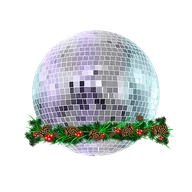
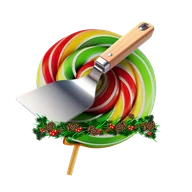
Ставрополь, «Сезон 2026-2027»: текст крупнее, шесть пунктов три в ряд
Серёга: текст слишком мелкий, убрать «Больше динамики - танцев и музыки»
и «Больше времени на программу и фото». Текст плашек 16-19 px (было 14-15,5),
заголовки 19-23, значки до 68 px; от 1100 px три в ряд, до 1100 две, на
телефоне лента из шести. Значки перенумерованы i1-i6, i7-i8 удалены.

diff --git a/stavropol.html b/stavropol.html
@@ -10513,15 +10513,18 @@ html.zs-lock .nav{margin-right:var(--zs-sbw,0px)}
      здесь — экран оставлять, у Тюмени его нет.
 
      МАТЕРИАЛ со старого сайта (блок node168 — компьютер, node667 — телефон): фон — те же фото
-     архива под чёрной вуалью 64 % (у телефона свой кадр), восемь пунктов компьютерной версии
-     и их значки. Картинки собирает sayt-nn/instrumenty/sezon_stavropol.py.
+     архива под чёрной вуалью 64 % (у телефона свой кадр), пункты компьютерной версии и их
+     значки. Картинки собирает sayt-nn/instrumenty/sezon_stavropol.py. Из восьми пунктов
+     Серёга убрал два: «Больше динамики - танцев и музыки» и «Больше времени на программу
+     и фото» (26.09.2026) — осталось шесть.
      ПОДАЧА своя (Серёга, в тот же день: «сделай в нашем стиле… текст в еле заметные плашки,
      добавь волшебства, компактнее, текст меньше»): пункты на еле заметном тёплом стекле
      с волосяной золотой кромкой (материя карточек фактов «Капсулы времени», .tm-f), значки
      парят над тёплым ореолом, по плашкам по очереди проходит блик, над архивом всплывает
      золотая пыль и дышат лиловые/янтарные отблески, по слову «Сезон» пробегает отсвет.
-     Раскладка: от 1180 px четыре плашки в ряд, до 1180 две, до 640 лента, которую
-     листают пальцем (с точками). Движение крутится только пока экран виден (класс .in)
+     Раскладка: от 1100 px три плашки в ряд (два ряда), до 1100 две, до 640 лента,
+     которую листают пальцем (с точками). Текст плашек 16-19 px: первый заход с 14-15,5
+     Серёга назвал слишком мелким. Движение крутится только пока экран виден (класс .in)
      и выключено при «меньше движения».
 
      ЗАГОЛОВОК ПОКА ТЕКСТОМ. Картинку «Сезон 2026-2027» Серёга делает сам: придёт — встаёт
@@ -10630,18 +10633,18 @@ html.zs-lock .nav{margin-right:var(--zs-sbw,0px)}
 /* ---------- плашки ---------- */
 .sz-list{
   list-style:none; margin:clamp(28px,2.8vw,44px) 0 0; padding:0;
-  display:grid; grid-template-columns:repeat(4,minmax(0,1fr)); gap:clamp(12px,1.25vw,20px);
+  display:grid; grid-template-columns:repeat(3,minmax(0,1fr)); gap:clamp(14px,1.4vw,22px);
 }
 /* Еле заметное тёплое стекло: заливка 3-8 % и волосяная золотая кромка внутренней
    тенью (как у .tm-f — высота не зависит от толщины линии); к нижнему углу —
    тень лилового перелива. Блюра под стеклом нет намеренно: фон и так размыт,
    а backdrop-filter над дышащими отблесками пересчитывался бы каждый кадр. */
 .sz-i{
-  --ic:clamp(48px,3.5vw,56px);
+  --ic:clamp(56px,4.2vw,68px);
   position:relative; isolation:isolate; overflow:hidden;
   display:grid; grid-template-columns:var(--ic) minmax(0,1fr); align-items:center; align-content:start;
-  column-gap:14px; row-gap:12px;
-  padding:18px 20px 20px; border-radius:18px;
+  column-gap:16px; row-gap:14px;
+  padding:clamp(18px,1.5vw,24px) clamp(20px,1.6vw,26px) clamp(20px,1.6vw,26px); border-radius:20px;
   background:linear-gradient(160deg, rgba(255,228,184,.08) 0%, rgba(255,210,150,.035) 46%, rgba(132,74,214,.06) 100%);
   box-shadow:
     inset 0 0 0 1px rgba(255,214,150,.17),
@@ -10669,12 +10672,12 @@ html.zs-lock .nav{margin-right:var(--zs-sbw,0px)}
 @keyframes szFloat{0%,100%{transform:translate3d(0,0,0)} 50%{transform:translate3d(0,-4px,0)}}
 .sz-h{
   margin:0; font-family:"Blogger Sans","Golos Text",Arial,sans-serif; font-weight:700;
-  font-size:clamp(16px,1.12vw,18.5px); line-height:1.15; color:#FFD189; text-wrap:balance;
+  font-size:clamp(19px,1.4vw,23px); line-height:1.15; color:#FFD189; text-wrap:balance;
 }
 .sz-p{
   grid-column:1/-1; margin:0;
   font-family:"Blogger Sans Medium","Blogger Sans",Arial,sans-serif; font-weight:500;
-  font-size:clamp(14px,.94vw,15.5px); line-height:1.42; color:rgba(255,255,255,.9);
+  font-size:clamp(16px,1.15vw,19px); line-height:1.45; color:rgba(255,255,255,.92);
   text-wrap:pretty; text-shadow:0 1px 12px rgba(0,0,0,.35);
 }
 @media (hover:hover) and (pointer:fine){
@@ -10708,8 +10711,8 @@ html.zs-lock .nav{margin-right:var(--zs-sbw,0px)}
   .sz{padding-top:calc(var(--sz-seam) + clamp(48px,6vw,76px))}
   .sz-seam--top{display:block}
 }
-/* до 1180 четыре в ряд тесно — две */
-@media (max-width:1179px){
+/* до 1100 три в ряд тесно — две */
+@media (max-width:1099px){
   .sz-list{grid-template-columns:repeat(2,minmax(0,1fr))}
 }
 /* до 768 у .cr-cont нет полей (так у экранов-копий) — даём свои */
@@ -10727,7 +10730,7 @@ html.zs-lock .nav{margin-right:var(--zs-sbw,0px)}
     scrollbar-width:none; -webkit-overflow-scrolling:touch;
   }
   .sz-list::-webkit-scrollbar{display:none}
-  .sz-i{flex:0 0 min(80vw,330px); scroll-snap-align:start; padding:16px 18px 18px}
+  .sz-i{flex:0 0 min(84vw,340px); scroll-snap-align:start; padding:18px 20px 20px}
   .sz-dots{display:flex; justify-content:center; gap:8px; margin-top:14px}
   .sz-dots i{display:block; width:6px; height:6px; border-radius:3px; background:rgba(255,214,150,.3);
     transition:width .3s ease, background-color .3s ease}
@@ -10761,22 +10764,16 @@ html.zs-lock .nav{margin-right:var(--zs-sbw,0px)}
         <h3 class="sz-h">Внедрили познавательную часть</h3>
         <p class="sz-p">Мы добавили историческую составляющую в квест. Дети узнают множество фактов из истории России и мира, познакомятся с выдающимися личностями разных эпох нашей страны в игровой форме.</p></li>
       <li class="sz-i"><span class="sz-ic-w"><img class="sz-ic" src="st-sz-i4.webp" width="192" height="192" alt="" loading="lazy" decoding="async"></span>
-        <h3 class="sz-h">Больше динамики&nbsp;- танцев и&nbsp;музыки</h3>
-        <p class="sz-p">Вы просили больше танца на улице? Во время приветственного шоу во дворе детки с главными героями станцуют флеш-моб в формате тик-ток. Видео с танцем мы снимем для вас на видео!</p></li>
-      <li class="sz-i"><span class="sz-ic-w"><img class="sz-ic" src="st-sz-i5.webp" width="192" height="192" alt="" loading="lazy" decoding="async"></span>
         <h3 class="sz-h">Новый карамельный мастер-класс</h3>
         <p class="sz-p">Новые формы и цвета леденцов! Но все тот же насыщенный вкус карамели, которую вы так хвалили в прошлом году!</p></li>
-      <li class="sz-i"><span class="sz-ic-w"><img class="sz-ic" src="st-sz-i6.webp" width="192" height="192" alt="" loading="lazy" decoding="async"></span>
-        <h3 class="sz-h">Больше времени на&nbsp;программу и&nbsp;фото</h3>
-        <p class="sz-p">Мы таки решились убрать чаепитие в пользу карамельного МК, квеста и фотографирования. Все же чаем детей не удивить!</p></li>
-      <li class="sz-i"><span class="sz-ic-w"><img class="sz-ic" src="st-sz-i7.webp" width="192" height="192" alt="" loading="lazy" decoding="async"></span>
+      <li class="sz-i"><span class="sz-ic-w"><img class="sz-ic" src="st-sz-i5.webp" width="192" height="192" alt="" loading="lazy" decoding="async"></span>
         <h3 class="sz-h">Новые герои, образы, костюмы и&nbsp;реквизит</h3>
         <p class="sz-p">Каждый год мы добавляем новых героев, шьем новые костюмы и изготавливаем новый реквизит, чтобы деткам было интересно приехать к нам снова!</p></li>
-      <li class="sz-i"><span class="sz-ic-w"><img class="sz-ic" src="st-sz-i8.webp" width="192" height="192" alt="" loading="lazy" decoding="async"></span>
+      <li class="sz-i"><span class="sz-ic-w"><img class="sz-ic" src="st-sz-i6.webp" width="192" height="192" alt="" loading="lazy" decoding="async"></span>
         <h3 class="sz-h">Новый кабинет Деда Мороза&nbsp;- тайный архив</h3>
         <p class="sz-p">В этот раз вы попадете в загадочный архив Деда Мороза с колоритным интерьером, различными артефактами, старинными реликвиями, летописями и машиной времени!</p></li>
     </ul>
-    <div class="sz-dots" aria-hidden="true"><i class="on"></i><i></i><i></i><i></i><i></i><i></i><i></i><i></i></div>
+    <div class="sz-dots" aria-hidden="true"><i class="on"></i><i></i><i></i><i></i><i></i><i></i></div>
   </div>
   <div class="sz-seam sz-seam--bot" aria-hidden="true"></div>
 </section>
